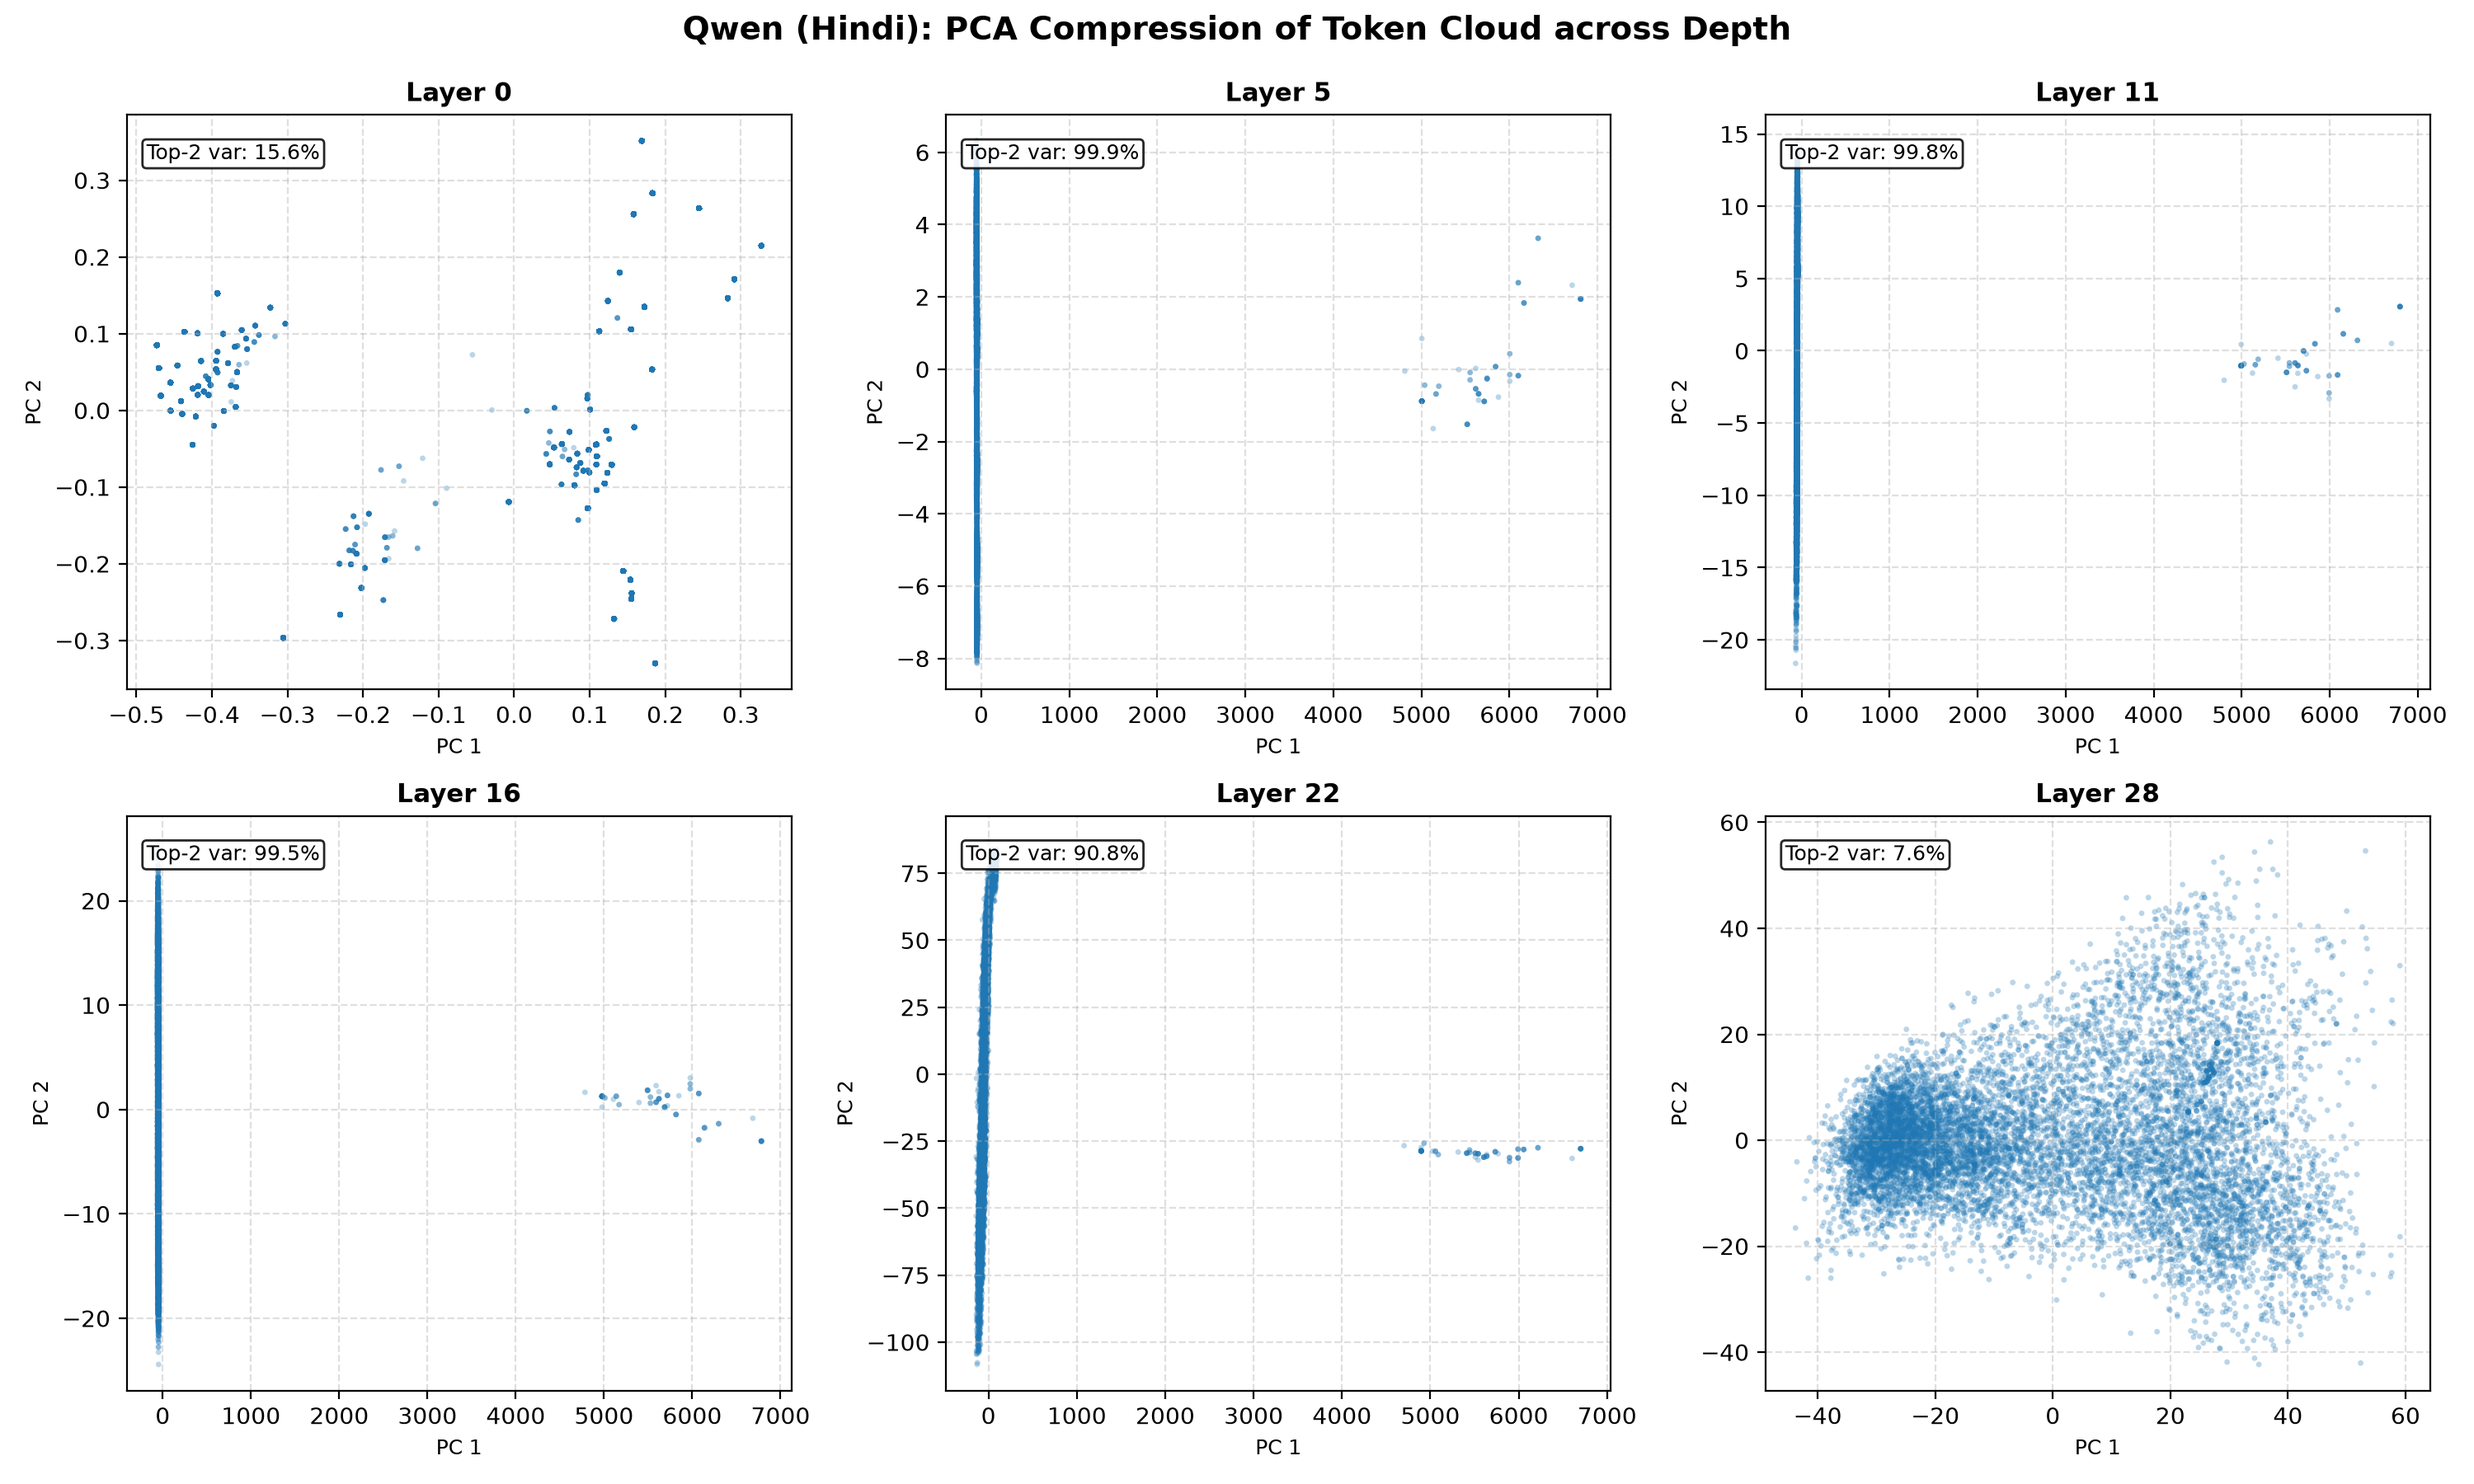
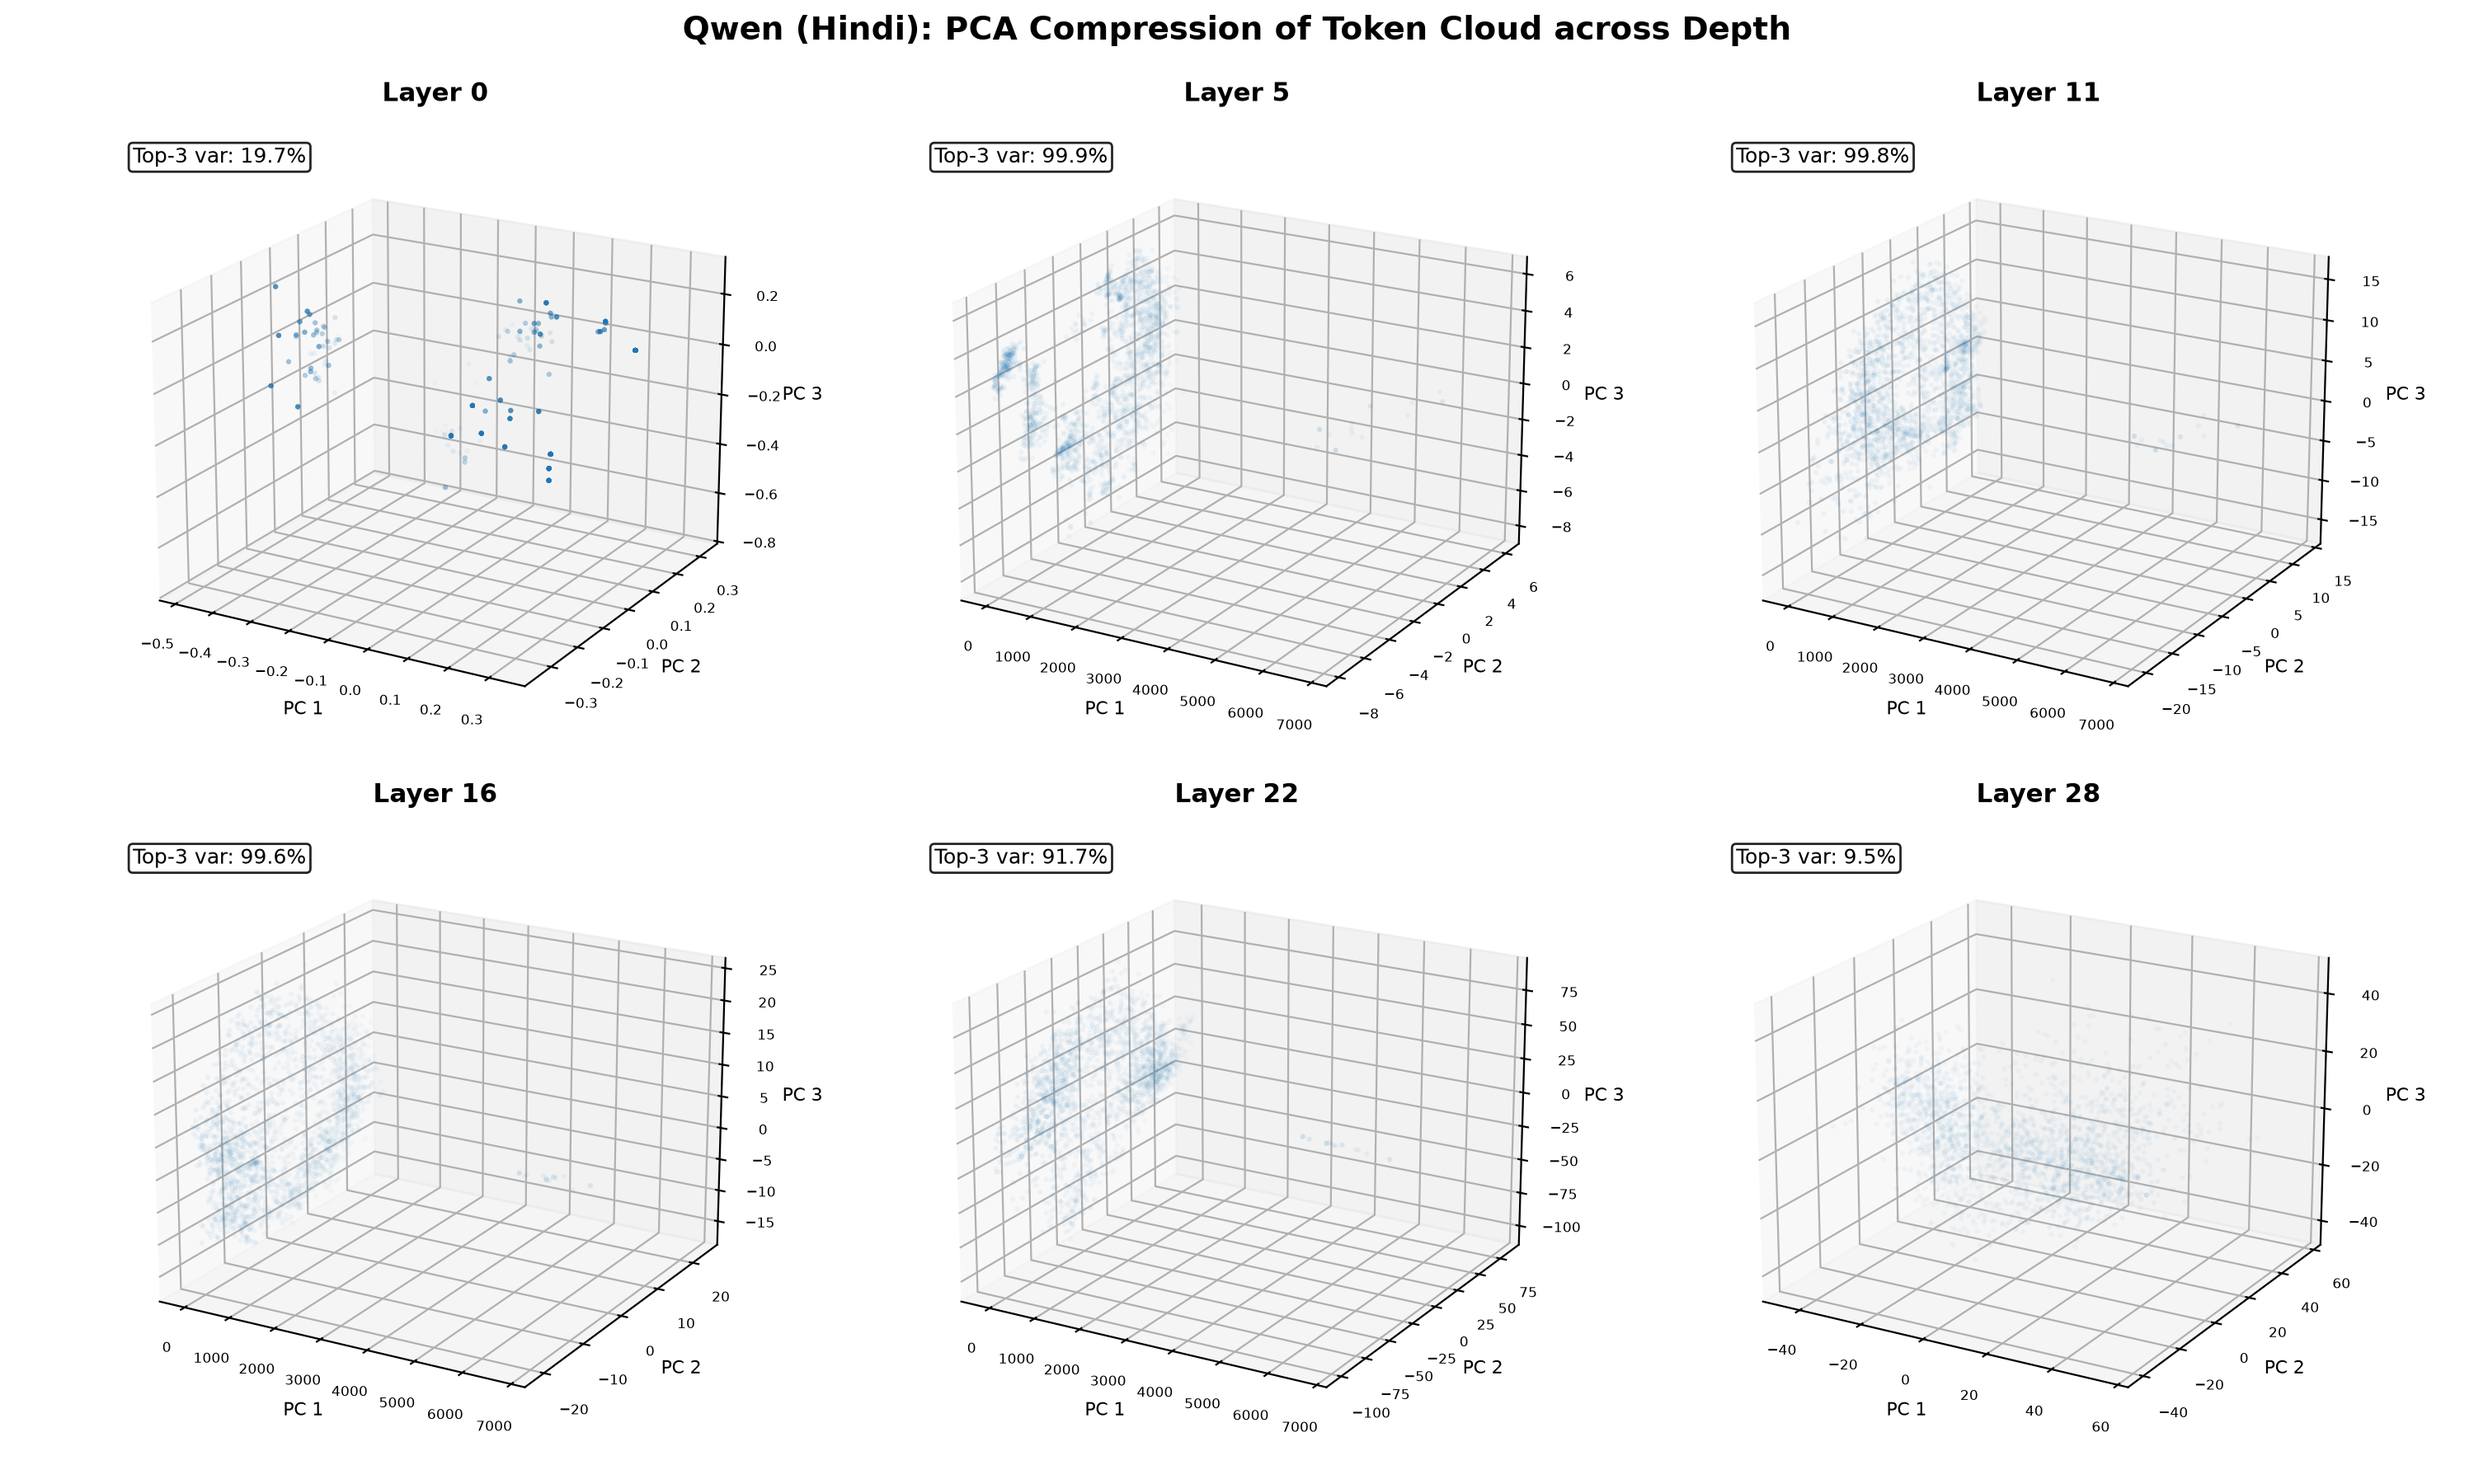
feat: render PCA compression plots in 3D
Switch the per-(model, language) PCA compression figures from 2D to 3D
(top-3 principal components) and regenerate them; update REPORT.md wording.

diff --git a/scripts/run_anisotropy_analysis.py b/scripts/run_anisotropy_analysis.py
@@ -171,7 +171,7 @@ def plot_pca_compression(
     lang: str,
     output_path: Path,
 ) -> None:
-    """Plot 2D PCA projections of the token cloud at layers across model depth.
+    """Plot 3D PCA projections of the token cloud at layers across model depth.
 
     Visualizes how the representation cloud compresses (collapses toward a narrow
     region) as depth increases, complementing the numeric isotropy metrics.
@@ -180,28 +180,30 @@ def plot_pca_compression(
     num_layers = len(layer_clouds)
     selected = np.linspace(0, num_layers - 1, 6, dtype=int)
 
-    _fig, axes = plt.subplots(2, 3, figsize=(15, 9), dpi=200)
-    flat_axes = axes.flatten()
+    fig = plt.figure(figsize=(15, 9), dpi=200)
 
     for panel, layer_idx in enumerate(selected):
-        ax = flat_axes[panel]
+        ax = fig.add_subplot(2, 3, panel + 1, projection="3d")
         cloud = layer_clouds[layer_idx].astype(np.float32)
 
-        pca = PCA(n_components=2, svd_solver="randomized", random_state=SEED)
+        pca = PCA(n_components=3, svd_solver="randomized", random_state=SEED)
         proj = pca.fit_transform(cloud - cloud.mean(axis=0))
-        var_share = float(pca.explained_variance_ratio_[:2].sum())
+        var_share = float(pca.explained_variance_ratio_[:3].sum())
 
         ax.scatter(
-            proj[:, 0], proj[:, 1], s=6, alpha=0.3, c="#1f77b4", edgecolors="none"
+            proj[:, 0], proj[:, 1], proj[:, 2],
+            s=5, alpha=0.25, c="#1f77b4", edgecolors="none",
         )
         ax.set_title(f"Layer {layer_idx}", fontsize=11, fontweight="bold")
-        ax.set_xlabel("PC 1", fontsize=9)
-        ax.set_ylabel("PC 2", fontsize=9)
-        ax.grid(visible=True, linestyle="--", alpha=0.4)
-        ax.text(
+        ax.set_xlabel("PC 1", fontsize=8, labelpad=1)
+        ax.set_ylabel("PC 2", fontsize=8, labelpad=1)
+        ax.set_zlabel("PC 3", fontsize=8, labelpad=1)
+        ax.tick_params(labelsize=6)
+        ax.view_init(elev=20, azim=-60)
+        ax.text2D(
             0.03,
             0.95,
-            f"Top-2 var: {var_share:.1%}",
+            f"Top-3 var: {var_share:.1%}",
             transform=ax.transAxes,
             fontsize=9,
             va="top",

diff --git a/REPORT.md b/REPORT.md
@@ -86,12 +86,12 @@ ends of the network.
 
 ![Gemma English PCA compression](results/BPCC_hin_Deva_google_embeddinggemma-300m_en/pca_compression.png)
 
-For each model and language we project the token cloud onto its top two principal
-components at six depths (one such figure per combination is saved alongside its
-metrics). The input layer shows a broad, rounded spread. The middle layers
-collapse toward a line or a tight blob, which matches the high SVD Ratio there,
-and the final layer spreads out again. The picture is the same story the metrics
-tell, seen directly.
+For each model and language we project the token cloud onto its top three
+principal components at six depths (one such figure per combination is saved
+alongside its metrics). The input layer shows a broad, rounded spread. The middle
+layers collapse toward a line or a tight blob, which matches the high SVD Ratio
+there, and the final layer spreads out again. The picture is the same story the
+metrics tell, seen directly.
 
 ## Takeaways
 
